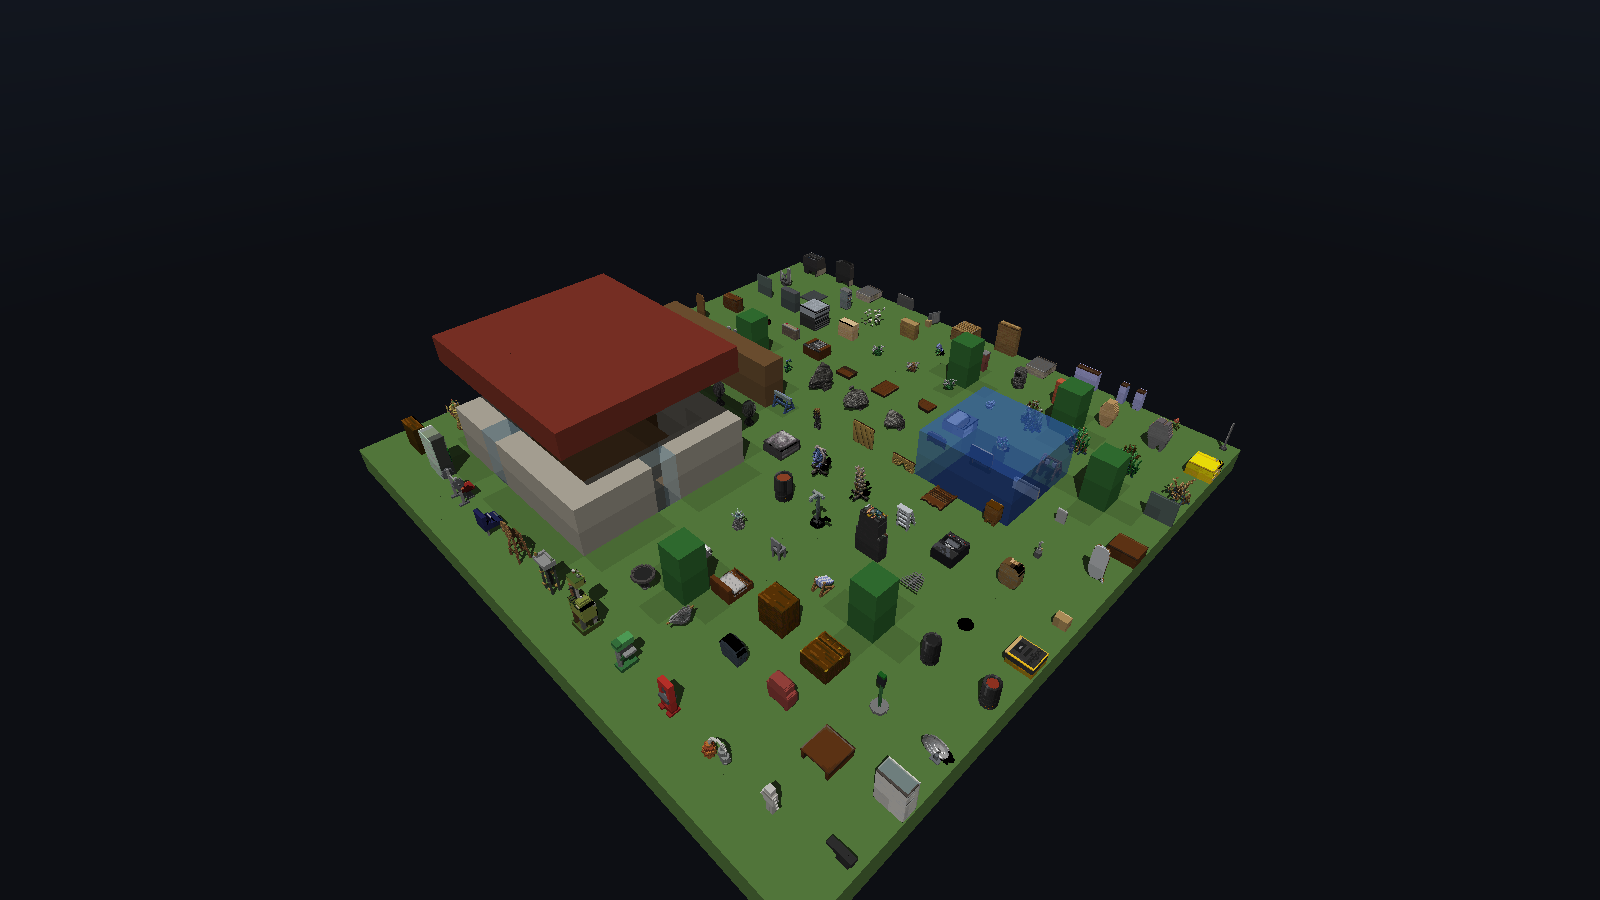
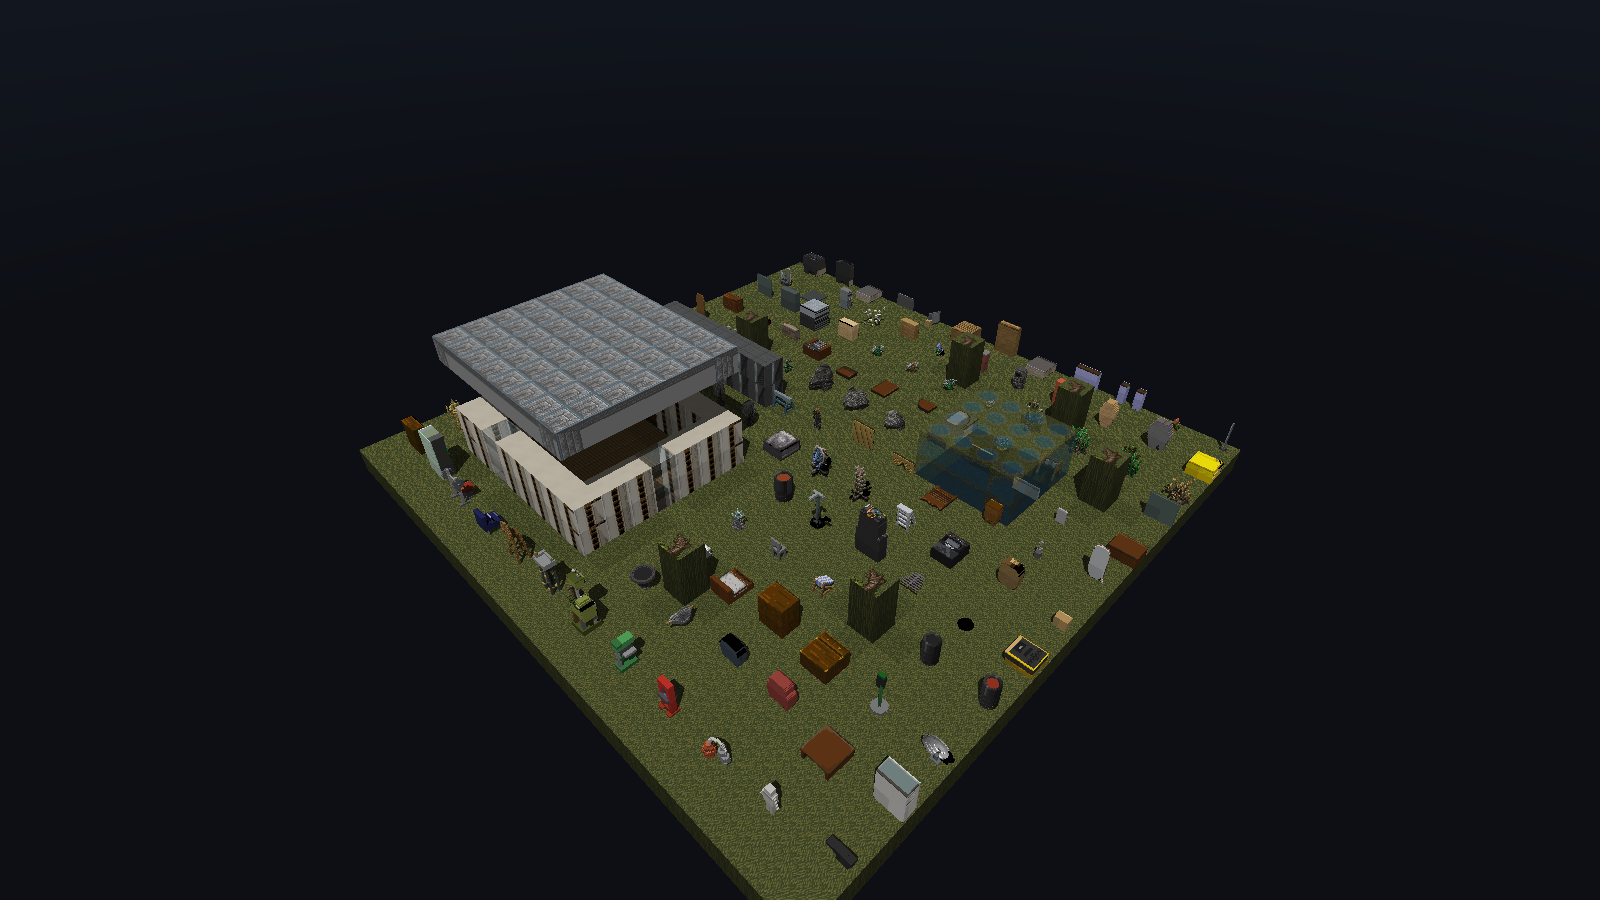
Prop gallery: wire the voxelizer textures dir (world renders textured)

Changed region(s): [[0.2188, 0.28, 0.7812, 1.0]]

diff --git a/crates/engine/examples/prop_gallery.rs b/crates/engine/examples/prop_gallery.rs
@@ -150,7 +150,7 @@ fn main() {
         }
         let mut ranked: Vec<([u8; 3], u64)> = freq.into_iter().collect();
         ranked.sort_by_key(|(_, n)| std::cmp::Reverse(*n));
-        let shared: Vec<[u8; 3]> = ranked.iter().take(240).map(|(c, _)| *c).collect();
+        let shared: Vec<[u8; 3]> = ranked.iter().take(160).map(|(c, _)| *c).collect();
         let shared_idx: HashMap<[u8; 3], u16> = shared
             .iter()
             .enumerate()
@@ -203,6 +203,7 @@ fn main() {
     let use_rt = !std::env::args().any(|a| a == "--raster");
     let args = CaptureArgs {
         snapshot: "sample-scene".to_string(),
+        textures: Some(assets.clone()),
         renderer: if use_rt {
             engine::capture::RendererKind::Rt
         } else {
